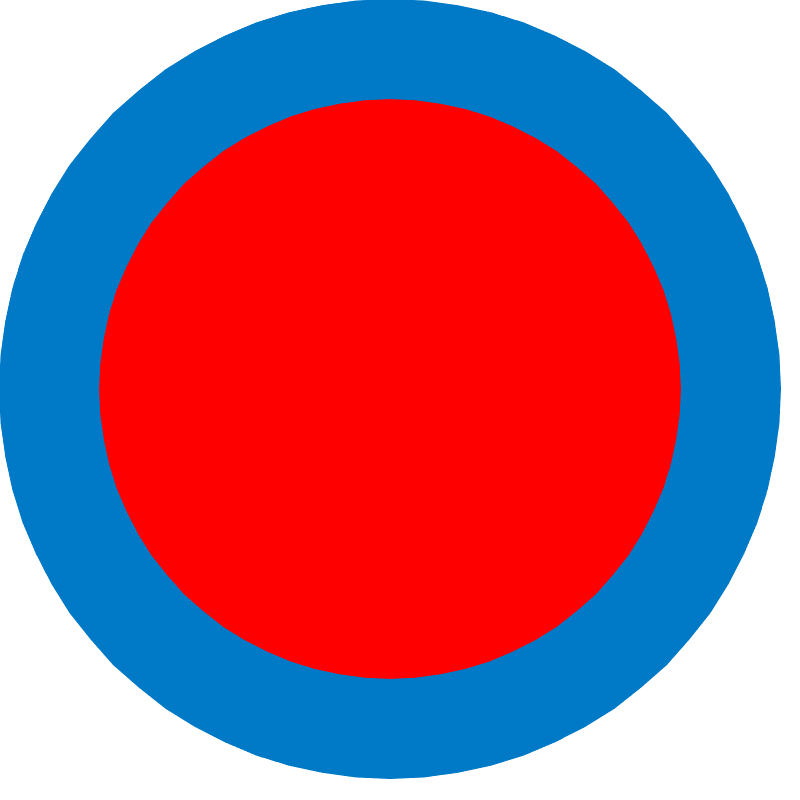
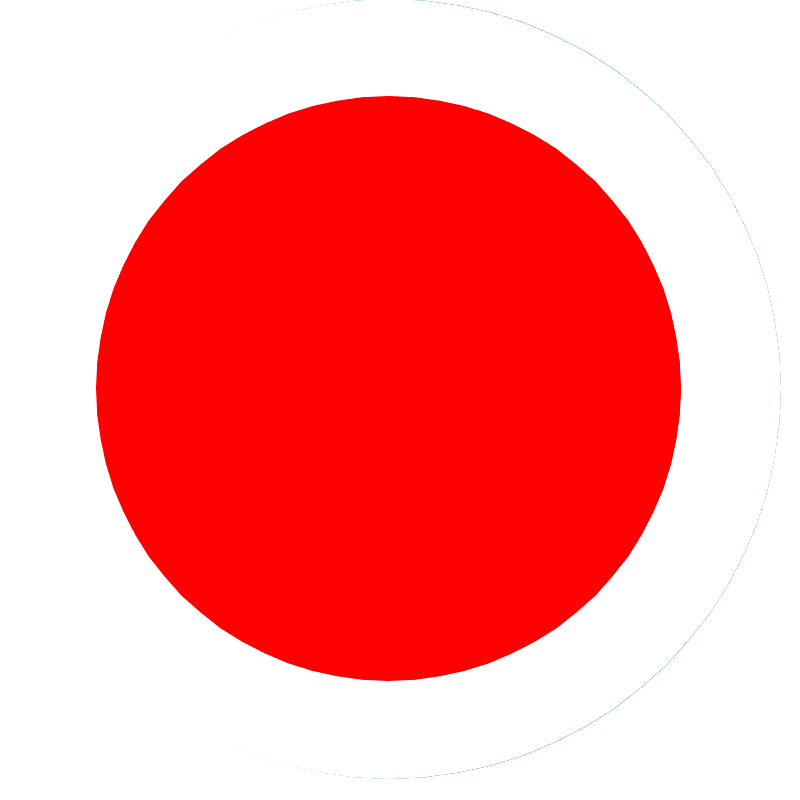
Replace not working OnGaze events by Raycasting checks + change cursor color

diff --git a/Assets/Scripts/Button.cs b/Assets/Scripts/Button.cs
@@ -46,15 +46,19 @@ public class Button : MonoBehaviour
     {
         push.GetComponent<Renderer>().material.color = color;
     }
-    
-    private void OnGazeEnterEvent()
-    {
-        GameObject.Find("Cursor").GetComponent<SpriteRenderer>().sprite = Resources.Load<Sprite>("red_cursor_circle");
-    }
 
-    private void OnGazeLeaveEvent()
+    private void Update()
     {
-        GameObject.Find("Cursor").GetComponent<SpriteRenderer>().sprite = Resources.Load<Sprite>("blue_cursor_circle");
+        RaycastHit HitInfo;
+        Transform cameraTransform = GameObject.Find("Cursor").gameObject.transform;
+        if (Physics.Raycast(cameraTransform.position, cameraTransform.forward, out HitInfo, 100.0f))
+        {
+            GameObject.Find("Cursor").GetComponent<SpriteRenderer>().sprite = Resources.Load<Sprite>("red_cursor_circle");
+        }
+        else
+        {
+            GameObject.Find("Cursor").GetComponent<SpriteRenderer>().sprite = Resources.Load<Sprite>("blue_cursor_circle");
+        }
     }
 
     public void PlaySound()
